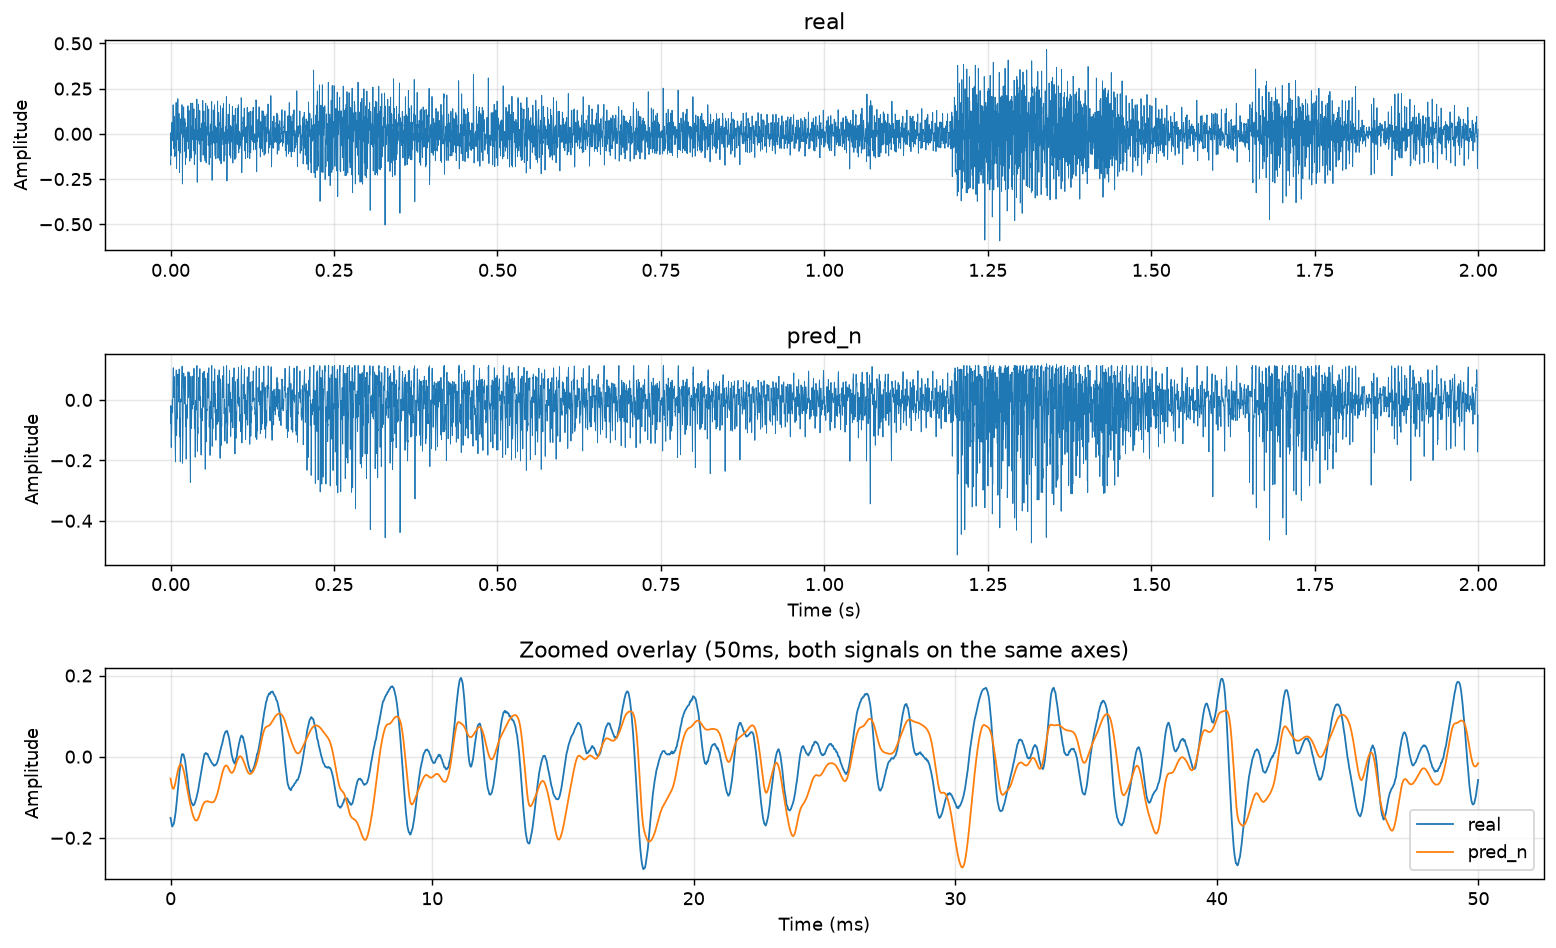
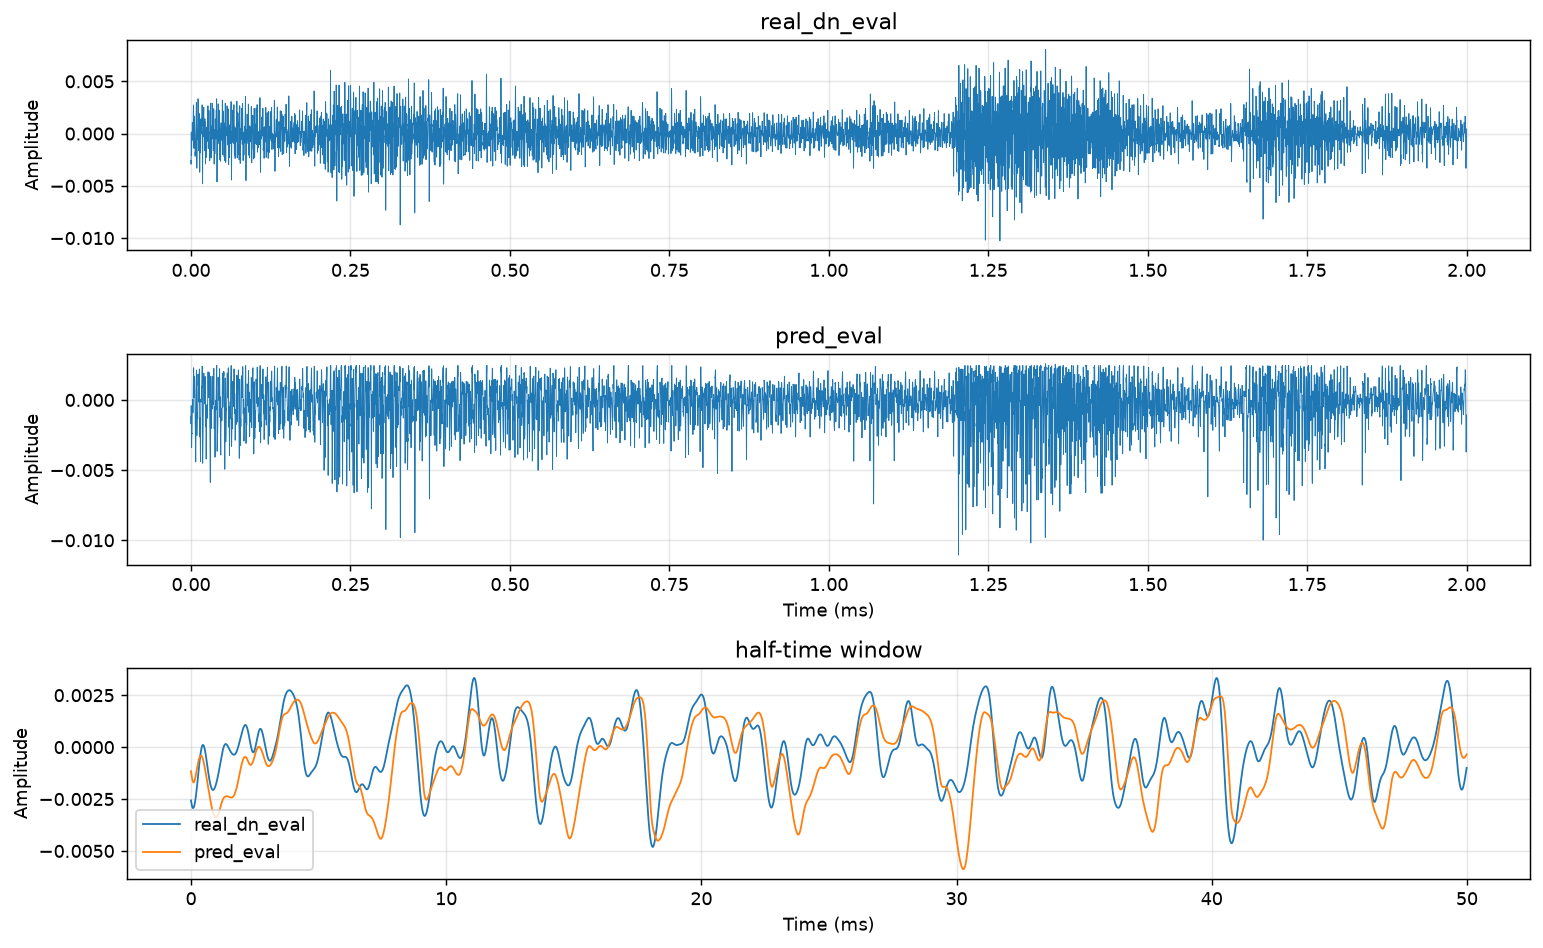
l

diff --git a/black_box/eval/evaluate_prediction.py b/black_box/eval/evaluate_prediction.py
@@ -48,8 +48,21 @@ from eval.plot_waves import plot_waveforms
 from common.delay_ops import measure_delay, apply_shift
 from common.utils import load_wav
 from scipy.signal import stft, istft
+from scipy.stats import skew
 
 config = get_config()
+
+def asymmetry_report(x, name):
+    pos = x[x > 0]
+    neg = x[x < 0]
+    pos_rms = np.sqrt(np.mean(pos**2)) if len(pos) else 0
+    neg_rms = np.sqrt(np.mean(neg**2)) if len(neg) else 0
+    p99_9 = np.percentile(x, 99.9)
+    p0_1 = np.percentile(x, 0.1)
+    print(f"{name}:")
+    print(f"  skewness:            {skew(x):+.4f}")
+    print(f"  pos_rms/neg_rms:     {pos_rms/neg_rms:.4f}  (1.0 = symmetric)")
+    print(f"  99.9th pct / |0.1th pct|: {p99_9/abs(p0_1):.4f}  (1.0 = symmetric)")
 
 def synthesize_noise(noise_profile, sr, n_samples, nperseg=2048):
     # generate white noise, shape its spectrum to match the measured profile
@@ -82,12 +95,12 @@ def evaluate_prediction(
     print(f"real_dn {len(real_dn)}")
 
     # Get noise only data
-    noise = real[:n_trim]
-    n_tiles = int(np.ceil(len(dry) / len(noise)))
-    noise = np.tile(noise, n_tiles)[:len(dry)]
-    print(f"real_dn {len(real_dn)}")
+    real_noise = real[:n_trim]
+    noise_profile = sc.estimate_noise_profile(real_noise, sr)
+    synthetic_noise_tile = synthesize_noise(noise_profile, sr, len(real_noise))
+    n_tiles = int(np.ceil(len(dry) / len(synthetic_noise_tile)))
+    synthetic_noise = np.tile(synthetic_noise_tile, n_tiles)
     
-
     # Shift real to match dry time-sync
     shift, sr = measure_delay(real[n_trim:], dry[n_trim:], sr, verbose=False) # only post-silence
     dry_aligned, real_aligned = apply_shift(dry, real, shift)
@@ -101,8 +114,12 @@ def evaluate_prediction(
     real_eval = real_aligned[:n]
     real_dn_eval = real_dn_aligned[:n]
     pred_eval = pred_aligned[:n]
-    noise_eval = noise[:n]
-    pred_n_eval = pred_eval + synthesize_noise(noise_profile, sr_p, n)
+    real_noise_eval = real_noise[:n]
+    synth_noise_eval = synthetic_noise[:n]
+    pred_n_eval = pred_eval + synth_noise_eval
+
+    print(f"real noise RMS:      {np.sqrt(np.mean(real_noise_eval**2)):.6f}")
+    print(f"synth noise RMS:      {np.sqrt(np.mean(synth_noise_eval**2)):.6f}")
 
     print(f'min {pred_eval.min()}')
     print(f'max {pred_eval.max()}')
@@ -122,32 +139,41 @@ def evaluate_prediction(
     print(f"ESR (held-out, v=6): {esr_loss(pred_t, real_dn_t).item():.5f}")
     print(f"DC loss: {dc_loss(pred_t, real_dn_t).item():.6f}")
     print("\nSynthetic noise")
-    print(f"ESR (held-out, v=6): {esr_loss(pred_t, pred_n_t).item():.5f}")
-    print(f"DC loss: {dc_loss(pred_t, pred_n_t).item():.6f}")
+    print(f"ESR (held-out, v=6): {esr_loss(pred_n_t, real_t).item():.5f}")
+    print(f"DC loss: {dc_loss(pred_n_t, real_t).item():.6f}")
     # --- LUFS-matched null test (reusing spectral_compare.py's tooling) ---
+    real_noise_noise_floor = sc.measure_noise_floor(real_noise_eval, sr)
+    synth_noise_noise_floor = sc.measure_noise_floor(synth_noise_eval, sr)
+    real_noise_gate = real_noise_noise_floor + 10
+    synth_noise_gate = synth_noise_noise_floor + 10
+    real_noise_lufs = sc.integrated_level(real_noise_eval, sr, real_noise_gate)
+    synth_noise_lufs = sc.integrated_level(synth_noise_eval, sr, synth_noise_gate)
+    real_noise_norm = real_noise_eval * 10 ** ((target_lufs - real_noise_lufs) / 20)
+    synth_noise_norm = synth_noise_eval * 10 ** ((target_lufs - synth_noise_lufs) / 20)
+
+    dry_noise_floor = sc.measure_noise_floor(dry_eval, sr)
+    dry_gate = dry_noise_floor + 10
+    dry_lufs = sc.integrated_level(dry_eval, sr, dry_gate)
+    dry_norm = dry_eval * 10 ** ((target_lufs - dry_lufs) / 20)
+
     real_noise_floor = sc.measure_noise_floor(real_eval, sr)
     real_dn_noise_floor = sc.measure_noise_floor(real_dn_eval, sr)
-    pred_n_noise_floor = sc.measure_noise_floor(pred_n_eval, sr)
-    pred_noise_floor = sc.measure_noise_floor(pred_eval, sr)
-    dry_noise_floor = sc.measure_noise_floor(dry_eval, sr)
-
     real_gate = real_noise_floor + 10
     real_dn_gate = real_dn_noise_floor + 10
-    pred_n_gate = pred_n_noise_floor + 10
-    pred_gate = pred_noise_floor + 10
-    dry_gate = dry_noise_floor + 10
-
     real_lufs = sc.integrated_level(real_eval, sr, real_gate)
     real_dn_lufs = sc.integrated_level(real_dn_eval, sr, real_dn_gate)
-    pred_n_lufs = sc.integrated_level(pred_n_eval, sr, pred_n_gate)
-    pred_lufs = sc.integrated_level(pred_eval, sr, pred_gate)
-    dry_lufs = sc.integrated_level(dry_eval, sr, dry_gate)
-
     real_norm = real_eval * 10 ** ((target_lufs - real_lufs) / 20)
     real_dn_norm = real_dn_eval * 10 ** ((target_lufs - real_dn_lufs) / 20)
+
+    pred_n_noise_floor = sc.measure_noise_floor(pred_n_eval, sr)
+    pred_noise_floor = sc.measure_noise_floor(pred_eval, sr)
+    pred_n_gate = pred_n_noise_floor + 10
+    pred_gate = pred_noise_floor + 10
+    pred_n_lufs = sc.integrated_level(pred_n_eval, sr, pred_n_gate)
+    pred_lufs = sc.integrated_level(pred_eval, sr, pred_gate)
     pred_norm = pred_eval * 10 ** ((target_lufs - pred_lufs) / 20)
     pred_n_norm = pred_eval * 10 ** ((target_lufs - pred_n_lufs) / 20)
-    dry_norm = dry_eval * 10 ** ((target_lufs - dry_lufs) / 20)
+
 
     nt = sc.null_test(real_norm, pred_norm, sr)
     print(f"\nLUFS-matched null test (target {target_lufs} LUFS):")
@@ -176,22 +202,42 @@ def evaluate_prediction(
     # --- plots + band table ---
     os.makedirs(output_dir, exist_ok=True)
 
-    # normalized = {'real': real_norm, 'real_dn':real_dn_norm, 'pred': pred_norm, 'dry': dry_norm, 'pred_n': pred_n_norm}
-    normalized = {'real': real_norm, 'pred_n': pred_n_norm}
-    # sc.plot_spectrograms(normalized, sr, f'{output_dir}/eval_norm_spectrograms.png', fmax=24000, vmin=-120)
-    # sc.plot_average_spectrum(normalized, sr, f'{output_dir}/eval_norm_avg_spectrum.png')
+    # serieses = {'real': real_norm, 'real_dn':real_dn_norm, 'pred': pred_norm, 'dry': dry_norm, 'pred_n': pred_n_norm}
+    #serieses = {'real': real_norm, 'pred_n': pred_n_norm}
+    serieses = {'real_dn': real_dn_norm, 'pred': pred_norm}
+    # sc.plot_spectrograms(serieses, sr, f'{output_dir}/eval_norm_spectrograms.png', fmax=24000, vmin=-120)
+    # sc.plot_average_spectrum(serieses, sr, f'{output_dir}/eval_norm_avg_spectrum.png')
     # print(f"\nSaved {output_dir}/eval_v6_spectrograms.png and {output_dir}/eval_avg_spectrum.png")
-    # sc.print_band_table(normalized, sr, reference='real')
+    # sc.print_band_table(serieses, sr, reference='real')
 
     # --- raw (non-LUFS-matched) dB spectrum, for comparison ---
-    # raw_signals = {'real': real_eval, 'real_dn': real_dn_eval, 'pred': pred_eval, 'dry': dry_eval, 'pred_n':pred_n_eval, 'noise':noise_eval}
+    # raw_signals = {'real': real_eval, 'real_dn': real_dn_eval, 'pred': pred_eval, 'dry': dry_eval, 'pred_n':pred_n_eval, 'real_noise':real_noise_eval, 'synth_noise':synth_noise_eval}
     raw_signals = {'real': real_eval, 'pred_n':pred_n_eval}
     sc.plot_spectrograms(raw_signals, sr, f'{output_dir}/eval_db_spectrograms.png', fmax=24000, vmin=-120)
     sc_db.plot_average_spectrum(raw_signals, sr, f'{output_dir}/eval_db_avg_spectrum_db.png')
     print(f"Saved {output_dir}/eval_avg_spectrum_db.png")
 
-
     # plot waves
-    waveform_out_path = f'{output_dir}/eval_waveform.png'
-    plot_waveforms(normalized, sr, waveform_out_path, chunk_seconds=2, zoom_seconds=0.05)
-    print(f"Saved {waveform_out_path}")
+    # serieses = {'real_eval': real_eval, 'pred_n_eval': pred_n_eval}
+    # serieses = {'real_noise_eval': real_noise_eval, 'synth_noise_eval': synth_noise_eval}
+    serieses = {'real_dn_eval': real_dn_eval, 'pred_eval': pred_eval}
+    # serieses = {'real_eval': real_eval, 'pred_n_eval': pred_n_eval}
+
+    #serieses = {'real': real_norm, 'pred_n': pred_n_norm}
+    # serieses = {'real_dn': real_dn_norm, 'pred': pred_norm}
+    # serieses = {'real': real_norm, 'pred_n': pred_n_norm, 'real_dn': real_dn_norm, 'pred': pred_norm}
+    # serieses = {'real': real_norm, 'real_dn': real_dn_norm}
+    # serieses = {'real': real_norm, 'real_dn': real_dn_norm}
+    # serieses = {'real': real_norm, 'real_dn': real_dn_norm, 'pred': pred_norm, 'pred_n': pred_n_norm}
+    for k, v in serieses.items():
+      asymmetry_report(v, k)
+    plot_waveforms(serieses, sr, f'{output_dir}/eval_waveform.png',    chunk_seconds=2, zoom_seconds=0.05, title="half-time window")
+    plot_waveforms(serieses, sr, f'{output_dir}/eval_waveform_st.png', chunk_seconds=2, zoom_seconds=0.05, start_seconds=1, title="silence time window")
+    print(f"Saved {output_dir}/eval_waveform.png")
+
+
+
+    # real_shift_aligned, pred_n_shift_aligned = apply_shift(real_norm, pred_n_norm, nt['lag_samples'])
+    # normalized_shift_corrected = {'real': real_shift_aligned, 'pred_n': pred_n_shift_aligned}
+    # plot_waveforms(normalized_shift_corrected, sr, f'{output_dir}/eval_waveform_shift_corrected.png', chunk_seconds=2, zoom_seconds=0.05)
+    # print(f"Saved {output_dir}/eval_waveform_shift_corrected.png")

diff --git a/black_box/inference/infer.py b/black_box/inference/infer.py
@@ -106,19 +106,19 @@ def infer(
     print(f"pred stats: min={pred.min():.4f}, max={pred.max():.4f}, std={pred.std():.4f}")
 
 if __name__ == "__main__":
-    infer(
-        dry_path='/home/ubuntu/dsp-modeler/data/input/input.wav',
-        out_path='/home/ubuntu/dsp-modeler/data/predictions/p.wav',
-        checkpoint = '/home/ubuntu/dsp-modeler/black_box/model/models/2026-08-09_18-00/model_best.pt',
-        block_seconds=0.1,  # matches the order of magnitude training already ran thousands of forward passes at without incident
-        param_configs={
-            'd': {'min': 1, 'max': 7, 'dtype': torch.float32},
-            'f': {'min': 1, 'max': 7, 'dtype': torch.float32},
-            'v': {'min': 1, 'max': 7, 'dtype': torch.float32},
-        },
-        params={"d": 3.0, "f": 3.0, "v": 3.0},
-        param_order = ['d', 'f', 'v']
-    )
+    # infer(
+    #     dry_path='/home/ubuntu/dsp-modeler/data/input/input.wav',
+    #     out_path='/home/ubuntu/dsp-modeler/data/predictions/p.wav',
+    #     checkpoint = '/home/ubuntu/dsp-modeler/black_box/model/models/2026-08-09_18-00/model_best.pt',
+    #     block_seconds=0.1,  # matches the order of magnitude training already ran thousands of forward passes at without incident
+    #     param_configs={
+    #         'd': {'min': 1, 'max': 7, 'dtype': torch.float32},
+    #         'f': {'min': 1, 'max': 7, 'dtype': torch.float32},
+    #         'v': {'min': 1, 'max': 7, 'dtype': torch.float32},
+    #     },
+    #     params={"d": 3.0, "f": 3.0, "v": 3.0},
+    #     param_order = ['d', 'f', 'v']
+    # )
 
     evaluate_prediction(
         dry_path = '/home/ubuntu/dsp-modeler/data/input/input.wav',

diff --git a/eval/plot_waves.py b/eval/plot_waves.py
@@ -34,7 +34,11 @@ def plot_waveforms(
     sr, 
     out_path, 
     chunk_seconds=2, 
-    zoom_seconds=0.05
+    zoom_seconds=0.05,
+    start_seconds=None,
+    xlabel="Time (ms)",
+    ylabel="Amplitude",
+    title="Title"
 ):
     """Stacked full-chunk waveform per signal, plus a short zoomed-in
     overlay panel so shape differences (not just separate, hard-to-compare
@@ -42,7 +46,8 @@ def plot_waveforms(
     names = list(normalized.keys())
     chunk_len = int(chunk_seconds * sr)
     zoom_len = int(zoom_seconds * sr)
-    start = len(normalized[names[0]]) // 2
+    # start = len(normalized[names[0]]) // 2
+    start = int(start_seconds * sr) if start_seconds is not None else len(normalized[names[0]]) // 2
 
     t_full = np.arange(chunk_len) / sr
     t_zoom = np.arange(zoom_len) / sr * 1000  # ms
@@ -52,18 +57,18 @@ def plot_waveforms(
     for ax, name in zip(axes[:-1], names):
         chunk = normalized[name][start:start + chunk_len]
         ax.plot(t_full, chunk, linewidth=0.5)
-        ax.set_ylabel('Amplitude')
+        ax.set_ylabel(ylabel)
         ax.set_title(name)
         ax.grid(True, alpha=0.3)
-    axes[-2].set_xlabel('Time (s)')
+    axes[-2].set_xlabel(xlabel)
 
     ax = axes[-1]
     for name in names:
         zoom_chunk = normalized[name][start:start + zoom_len]
         ax.plot(t_zoom, zoom_chunk, label=name, linewidth=1.0)
-    ax.set_xlabel('Time (ms)')
-    ax.set_ylabel('Amplitude')
-    ax.set_title(f'Zoomed overlay ({zoom_seconds * 1000:.0f}ms, both signals on the same axes)')
+    ax.set_xlabel(xlabel)
+    ax.set_ylabel(ylabel)
+    ax.set_title(title)
     ax.legend()
     ax.grid(True, alpha=0.3)
 

diff --git a/black_box/train/train.py b/black_box/train/train.py
@@ -242,7 +242,7 @@ def train_stateful_single_file(
         for pn in param_names
     ]
     input_size = len(param_names) + 1
-    model = ConditionedLSTM(input_size=input_size, hidden_size=20).to(device)
+    model = ConditionedLSTM(input_size=input_size, hidden_size=40).to(device)
     optimizer = optim.Adam(model.parameters(), lr=learning_rate)
 
     # Every epoch, scheduler.step(avg_loss) hands the scheduler that epoch's loss.
